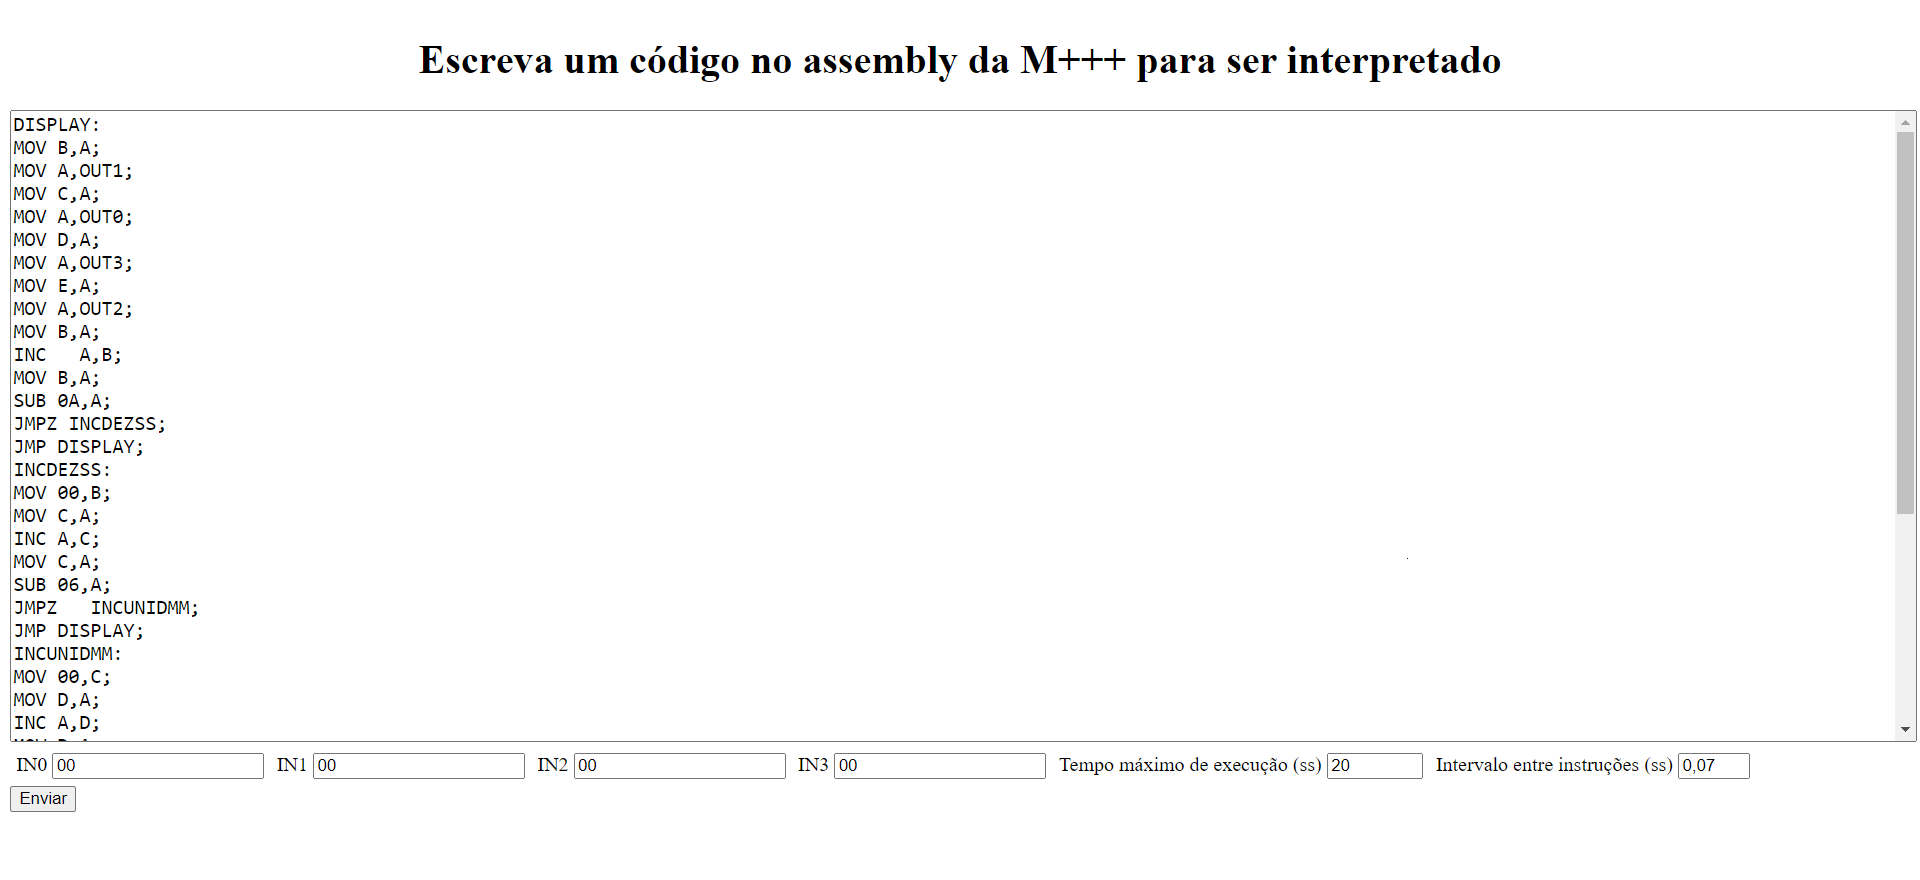
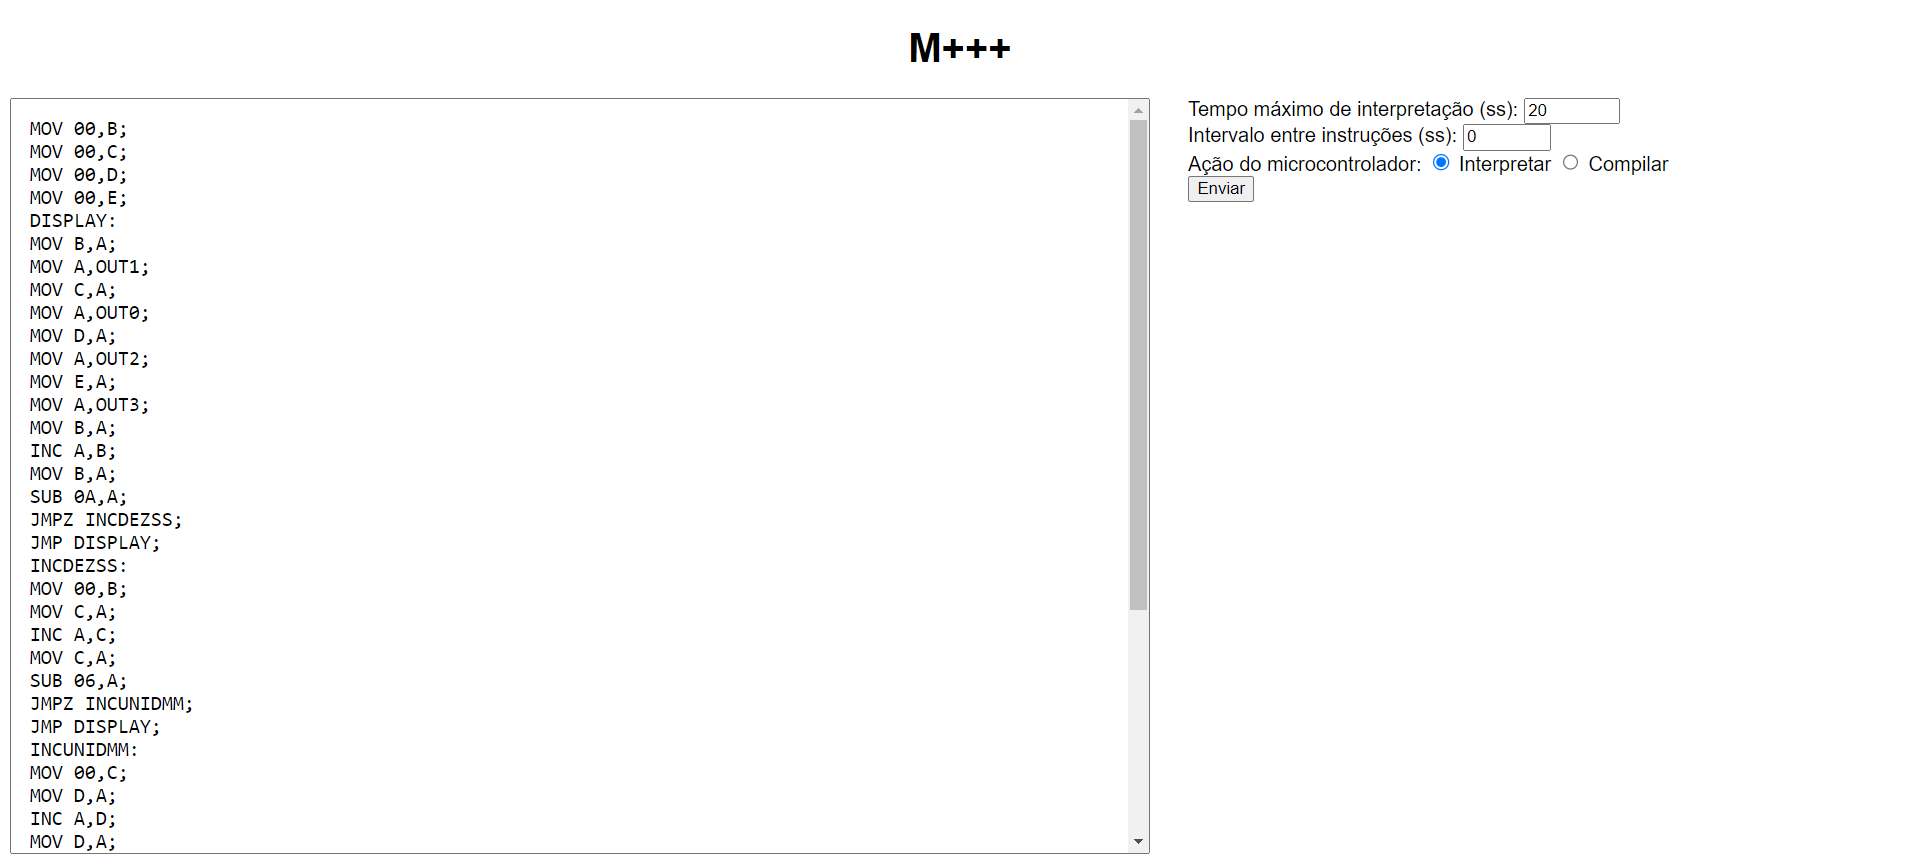
ajustando o readme

diff --git a/README.md b/README.md
@@ -8,7 +8,7 @@ Maquina+++ (Machine+++/M3+) é um projeto da Universidade Regional de Blumenau (
 ___
 ## Objetivo desse projeto
 
-Esse projeto tem como objetivo criar uma versão da M3+ portável para o sistema operacional NuttX rodando em um ESP32 e, para isso, foi implementada em C no modelo de aplicação cliente-servidor. A interface web serve como meio de comunicação entre o cliente (usuário) com o restante da aplicação, que é composta pelos analisadores léxico, sintático e semântico e um interpretador para que seja possível executar o assembly.
+Esse projeto tem como objetivo criar uma versão da M3+ portável para o sistema operacional NuttX rodando em um ESP32 e, para isso, foi implementada em C no modelo de aplicação cliente-servidor. A interface web serve como meio de comunicação entre o cliente (usuário) e o restante da aplicação, que é composta pelos analisadores léxico, sintático e semântico e um interpretador para que seja possível executar o assembly.
 
 ___
 ## Características da Aplicação
@@ -19,40 +19,42 @@ A aplicação foi separada em três partes: serviço web, analisador e interpret
 interface web e pelo servidor, que recebe as requisições vindas da interface e encaminha para o analisador. O analisador,
 responsável por analisar lexica, sintatica e semanticamente o código, poderá retornar para o servidor uma mensagem de erro caso encontre algum problema no código ou então irá enviar para o interpretador o assembly validado a fim de interpretá-lo, podendo se comunicar com o hardware ou retornar para o servidor uma mensagem de sucesso ou erro que será devolvida ao cliente, encerrando o fluxo.
 
-<img src="imagens\fluxograma.png">
+<img src="imagens\fluxograma.png" style="display: block; margin: auto; width:50%;">
 
 ### Interface web
 
 A interface possui 4 parâmetros importantes para a aplicação:
 1. campo de texto para inserção de código assembly;
-2. campos de texto enumerados de IN0 até IN3 representando as portas INPUT da M3+;
-3. campo numérico para informar o tempo máximo de execução da aplicação em segundos;
-4. campo numérico para informar o intervalo entre cada instrução também em segundos.
+2. campo numérico para informar o tempo máximo de execução da aplicação em segundos;
+3. campo numérico para informar o intervalo entre cada instrução também em segundos;
+4. grupo de checkbox para alternar entre compilação e interpretação do código assembly.
 
-O parâmetro 3 serve para evitar que códigos cíclicos executem indefinidamente, impossibilitando novas execuções. Já o o parâmetro 4 serve para aumentar o tempo entre uma instrução e outra, permitindo visualizar o valor dos LEDs do hardware com facilidade.
+O parâmetro 2 serve para evitar que códigos cíclicos executem indefinidamente, impossibilitando novas execuções. Já o o parâmetro 3 serve para aumentar o tempo entre uma instrução e outra, permitindo visualizar o valor dos LEDs do hardware com facilidade. Além disso, é possível compilar código enquanto outro é interpretado, mas não é possível interpretar dois ao mesmo tempo.
 
-<img src="imagens\interface.png">
+<img src="imagens\interface.png" style="display: block; margin: auto; width:90%;">
 
 ### Hardware
 
-O sistema embarcado construído para o projeto foi baseado na estrutura da M+++ e possui as seguintes
-características:
+O sistema embarcado construído para o projeto foi baseado na estrutura da M+++ e possui os seguintes
+componentes:
 * 1 ESP32-WROOM-32;
-* 4 PCF8574P;
-* 1 protoboard;
-* 32 resistores CR12 – 1/8W – 330 Ohms;
-* 2 resistores CR12 – 1/8W – 10K Ohms;
-* 32 LEDs vermelhas;
-* jumpers macho-macho.
+* 1 capacitor eletrolítico 1UF/63V (105°C);
+* 1 MM74C922WMX;
+* 1 protoboard disposto conforme imagem abaixo;
+* 2 barras de pinos fêmea PCI 1X20 (Passo 2.54mm, 180°);
+* 2 resistores 4K7 Ohms (SMD 0805 1/8W, 5% Precisão);
+* 4 CD4511 (Decodificador para Display de 7 Segmentos);
+* 4 displays 7 Segmentos HS-3191AS Catodo (cor vermelha, 7.5X13mm);
+* 8 barras de pinos fêmea PCI 1x4 (Passo 2.54mm, 180°);
+* 8 PCFs 8574P;
+* 12 capacitores cerâmicos 100NF/50V (SMD 0805);
+* 12 soquetes estampados 16 Pinos;
+* 16 LEDs SMD 0805 (cor vermelha);
+* 16 resistores 220R Ohms (SMD 0805 1/8W, 5% Precisão);
+* 32 chaves Tácteis KFC-A06-3X6X2.5 - 2T 180G SMD;
+* 32 resistores 10K Ohms (SMD 0805 1/8W; 1% Precisão);
 
 <img src="imagens\hardware.png">
-
-O ESP32, contornado pelo quadrado vermelho, é o microcontrolador em que o NuttX está instalado e a aplicação
-é executada. Para se comunicar com os dispositivos I2C PCF8574P, as portas definidas como GPIO21 e GPIO22, SDA e
-SCL respectivamente, passam pelos resistores R1 e R2 de 10K Ohms para reduzir a corrente e então se conectam às portas
-15 e 14 de cada PCF8574P. O quadrado verde agrupa os dispositivos I2C, os pinos P0 até P7 estão conectados no lado
-positivo de cada LED, destacados no quadrado roxo, e o lado negativo se conecta ao GND do ESP32 por meio de resistores
-de 330 Ohms.
 
 ___
 ## Configuração do NuttX
